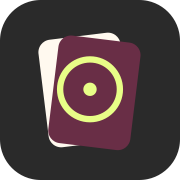
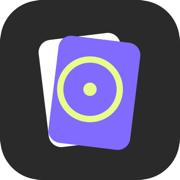
Align game with brand palette and add card flips

diff --git a/src/styles/global.css b/src/styles/global.css
@@ -10,17 +10,17 @@
   --site-soft: #f6f6f3;
   --lime: #e8fe87;
   --purple: #816afe;
-  --table: #eee5d8;
-  --paper: #fff9ef;
-  --game-ink: #292126;
-  --game-muted: #645a60;
-  --game-line: #cdc0b2;
-  --game-brand: #692e46;
-  --chapter-beginnings: #b68a3d;
-  --chapter-character: #692e46;
-  --chapter-turns: #466c7a;
-  --chapter-present: #4f6756;
-  --focus: #1e596a;
+  --table: #f6f6f3;
+  --paper: #ffffff;
+  --game-ink: #2a2a2a;
+  --game-muted: rgba(42, 42, 42, .66);
+  --game-line: rgba(42, 42, 42, .16);
+  --game-brand: #816afe;
+  --chapter-beginnings: #e8fe87;
+  --chapter-character: #816afe;
+  --chapter-turns: #2a2a2a;
+  --chapter-present: #ffffff;
+  --focus: #816afe;
   --serif: Georgia, "Times New Roman", serif;
 }
 
@@ -55,7 +55,7 @@ h1, h2, h3, p { margin-top: 0; }
 .button--lime { background: var(--lime); color: var(--site-ink); }
 .button--ghost { border-color: var(--site-line); }
 .button--wide { width: 100%; }
-.button--game { border-radius: 10px; background: var(--game-brand); color: var(--paper); }
+.button--game { border-radius: 999px; background: var(--lime); color: var(--site-ink); }
 .button--paper { border-radius: 10px; border-color: var(--game-line); background: transparent; color: var(--game-ink); }
 .button--danger { border-radius: 10px; background: #9d2d2d; color: #fff; }
 .button-row { display: flex; flex-wrap: wrap; gap: 10px; align-items: center; }
@@ -88,7 +88,7 @@ h1, h2, h3, p { margin-top: 0; }
 .auth-form input { width: 100%; min-height: 54px; padding: 12px 16px; border: 1px solid var(--site-line); border-radius: 12px; background: #fff; color: var(--site-ink); font-size: 17px; }
 .form-error { margin: 0; padding: 12px 14px; background: #fff0f0; color: #8f2424; border-radius: 10px; font-size: 14px; }
 .auth-note { margin: 24px 0 0; max-width: 520px; color: var(--site-muted); font-size: 13px; line-height: 1.5; }
-.auth-visual { position: relative; min-height: 620px; padding: 34px; overflow: hidden; border-radius: 0 0 110px 0; color: #fff; background: #151a1d; }
+.auth-visual { position: relative; min-height: 620px; padding: 34px; overflow: hidden; border-radius: 0 0 110px 0; color: #fff; background: var(--site-ink); }
 .auth-visual::after { content: ""; position: absolute; inset: 24px 24px 24px auto; width: 1px; background: repeating-linear-gradient(to bottom, rgba(255,255,255,.24) 0 2px, transparent 2px 10px); }
 .auth-visual__label { display: inline-flex; padding: 8px 12px; border: 1px solid rgba(255,255,255,.18); border-radius: 999px; font-size: 10px; letter-spacing: .13em; }
 .auth-visual > p { position: absolute; z-index: 3; bottom: 34px; left: 34px; max-width: 350px; margin: 0; color: rgba(255,255,255,.72); font-size: 16px; line-height: 1.5; }
@@ -118,7 +118,7 @@ h1, h2, h3, p { margin-top: 0; }
 .product-card__status { margin-bottom: auto; font-size: 12px; font-weight: 760; letter-spacing: .12em; text-transform: uppercase; }
 .product-card__copy h3 { margin: 28px 0 20px; font-size: clamp(48px, 5vw, 74px); line-height: .94; letter-spacing: -.06em; }
 .product-card__copy > p:not(.product-card__status) { max-width: 560px; margin-bottom: 28px; color: rgba(255,255,255,.7); font-size: 17px; line-height: 1.55; }
-.product-card__art { position: relative; overflow: hidden; background: #171c1f; }
+.product-card__art { position: relative; overflow: hidden; background: #202020; }
 .product-card__art::before { content: ""; position: absolute; inset: 0; background-image: radial-gradient(circle at center, rgba(129,106,254,.2), transparent 60%); }
 .mini-card { position: absolute; top: 50%; left: 50%; width: min(42%, 230px); aspect-ratio: 3/4; display: flex; flex-direction: column; justify-content: space-between; padding: 22px; border-radius: 19px; border: 1px solid rgba(255,255,255,.18); box-shadow: 0 25px 45px rgba(0,0,0,.35); font-size: 13px; }
 .mini-card--ochre { background: var(--chapter-beginnings); color: var(--game-ink); transform: translate(-88%, -48%) rotate(-15deg); }
@@ -177,11 +177,11 @@ h1, h2, h3, p { margin-top: 0; }
 .play-progress span { color: var(--game-muted); }
 .play-main { flex: 1; width: min(1260px, 100%); display: grid; place-items: center; margin: 0 auto; padding: 34px clamp(18px, 4vw, 50px) 60px; }
 .chapter-screen { width: 100%; display: grid; grid-template-columns: minmax(300px, 500px) minmax(280px, 420px); align-items: center; justify-content: center; gap: clamp(36px, 7vw, 100px); }
-.chapter-card { min-height: 600px; aspect-ratio: 3/4; display: flex; flex-direction: column; justify-content: space-between; padding: 36px; border-radius: 25px; background: var(--chapter-color); color: var(--paper); box-shadow: 0 28px 50px -30px rgba(41,33,38,.55); }
+.chapter-card { min-height: 600px; aspect-ratio: 3/4; display: flex; flex-direction: column; justify-content: space-between; padding: 36px; border: 1px solid var(--game-line); border-radius: 25px; background: var(--chapter-color); color: var(--paper); box-shadow: 0 28px 50px -30px rgba(42,42,42,.35); }
 .chapter-card--beginnings { --chapter-color: var(--chapter-beginnings); color: var(--game-ink); }
 .chapter-card--character { --chapter-color: var(--chapter-character); }
 .chapter-card--turns { --chapter-color: var(--chapter-turns); }
-.chapter-card--present { --chapter-color: var(--chapter-present); }
+.chapter-card--present { --chapter-color: var(--chapter-present); color: var(--game-ink); }
 .chapter-card h1 { margin: 0 0 14px; font-family: var(--serif); font-size: clamp(39px, 5vw, 59px); font-weight: 400; line-height: 1.02; letter-spacing: -.045em; }
 .chapter-card p { margin: 0; }
 .chapter-symbol { width: 48%; align-self: center; }
@@ -194,11 +194,20 @@ h1, h2, h3, p { margin-top: 0; }
 .mobile-note { display: none; }
 .pair-cards { width: 100%; display: grid; grid-template-columns: repeat(2, minmax(280px, 430px)); align-items: start; justify-content: center; gap: clamp(18px, 4vw, 42px); }
 .pair-cards--closed { grid-template-columns: repeat(2, minmax(240px, 360px)); align-items: center; }
-.pair-cards--closed .game-card:first-child { transform: rotate(-3deg); }
-.pair-cards--closed .game-card:last-child { transform: rotate(3deg); }
-.pair-option { display: grid; gap: 12px; }
+.pair-cards--closed .pair-option:first-child { transform: rotate(-3deg); }
+.pair-cards--closed .pair-option:last-child { transform: rotate(3deg); }
+.pair-option { min-width: 0; display: grid; gap: 12px; transition: transform .65s cubic-bezier(.2,.75,.25,1); }
+.flip-card { width: 100%; min-height: 480px; aspect-ratio: 3/4; perspective: 1400px; outline: none; }
+.flip-card[role="button"] { cursor: pointer; }
+.flip-card[role="button"]:focus-visible { border-radius: 22px; outline: 3px solid var(--focus); outline-offset: 5px; }
+.flip-card__inner { position: relative; width: 100%; height: 100%; transform-style: preserve-3d; transition: transform .72s cubic-bezier(.2,.72,.18,1); }
+.pair-option:nth-child(2) .flip-card__inner { transition-delay: .08s; }
+.flip-card.is-flipped .flip-card__inner { transform: rotateY(180deg); }
+.flip-card__side { position: absolute; inset: 0; backface-visibility: hidden; -webkit-backface-visibility: hidden; }
+.flip-card__side--face { transform: rotateY(180deg); }
+.flip-card__side > .game-card { height: 100%; min-height: 0; }
 
-.game-card { position: relative; width: 100%; min-height: 560px; aspect-ratio: 3/4; overflow: visible; padding: 30px; border-radius: 22px; border: 1px solid rgba(41,33,38,.16); box-shadow: 0 20px 42px -28px rgba(41,33,38,.55); }
+.game-card { position: relative; width: 100%; min-height: 560px; aspect-ratio: 3/4; overflow: visible; padding: 30px; border-radius: 22px; border: 1px solid var(--game-line); box-shadow: 0 20px 42px -28px rgba(42,42,42,.35); }
 .game-card--small { min-height: 480px; }
 .game-card--compact { min-height: 460px; }
 .game-card--back { display: flex; flex-direction: column; justify-content: space-between; text-align: left; }
@@ -213,7 +222,7 @@ h1, h2, h3, p { margin-top: 0; }
 .game-card--back.card-tone--beginnings { background: var(--chapter-beginnings); color: var(--game-ink); }
 .game-card--back.card-tone--character { background: var(--chapter-character); color: var(--paper); }
 .game-card--back.card-tone--turns { background: var(--chapter-turns); color: var(--paper); }
-.game-card--back.card-tone--present { background: var(--chapter-present); color: var(--paper); }
+.game-card--back.card-tone--present { background: var(--chapter-present); color: var(--game-ink); }
 .game-card--face::before { content: ""; position: absolute; top: 0; left: 30px; right: 30px; height: 5px; border-radius: 0 0 6px 6px; background: var(--card-accent); }
 .card-kicker { margin: 0; font-size: 12px; font-weight: 700; letter-spacing: .1em; text-transform: uppercase; }
 .card-symbol { width: 45%; align-self: center; }
@@ -232,11 +241,11 @@ h1, h2, h3, p { margin-top: 0; }
 
 .single-card-stage { width: min(560px, 100%); display: grid; justify-items: center; gap: 16px; margin: auto; }
 .single-card-stage .game-card { max-width: 440px; }
-.guess-panel, .detail-panel { width: min(660px, 100%); padding: 20px 22px; border: 1px solid var(--game-line); border-radius: 14px; background: rgba(255,249,239,.72); }
+.guess-panel, .detail-panel { width: min(660px, 100%); padding: 20px 22px; border: 1px solid var(--game-line); border-radius: 14px; background: rgba(255,255,255,.78); }
 .guess-panel > p:not(.eyebrow) { font-family: var(--serif); font-size: 22px; line-height: 1.45; }
 .detail-panel { margin: 0; color: var(--game-muted); font-size: 17px; line-height: 1.55; }
 .story-tools { width: min(680px, 100%); display: grid; grid-template-columns: repeat(3, 1fr); gap: 8px; }
-.tool-button { min-height: 52px; padding: 10px 12px; border: 1px solid var(--game-line); border-radius: 10px; background: rgba(255,249,239,.45); font-size: 14px; }
+.tool-button { min-height: 52px; padding: 10px 12px; border: 1px solid var(--game-line); border-radius: 10px; background: rgba(255,255,255,.68); font-size: 14px; }
 .story-complete { width: min(680px, 100%); display: grid; grid-template-columns: 1.3fr .7fr; gap: 8px; }
 .recording-badge { margin: 0; padding: 7px 10px; border: 1px solid var(--game-line); border-radius: 999px; color: var(--game-muted); font-size: 12px; }
 .closing-screen { width: min(760px, 100%); text-align: center; }
@@ -355,8 +364,8 @@ h1, h2, h3, p { margin-top: 0; }
   .chapter-screen { grid-template-columns: 1fr; max-width: 460px; }
   .chapter-card { width: 100%; min-height: 500px; }
   .pair-cards, .pair-cards--closed { grid-template-columns: minmax(0, 440px); }
-  .pair-cards--closed .game-card:last-child { margin-top: -390px; transform: translate(18px, 28px) rotate(4deg); }
-  .pair-cards--closed .game-card:first-child { transform: translate(-18px, -10px) rotate(-4deg); }
+  .pair-cards--closed .pair-option:last-child { margin-top: -390px; transform: translate(18px, 28px) rotate(4deg); }
+  .pair-cards--closed .pair-option:first-child { transform: translate(-18px, -10px) rotate(-4deg); }
   .mobile-note { display: block; font-size: 13px; }
   .game-card { min-height: 500px; padding: 24px; }
   .game-card--face::before { left: 24px; right: 24px; }
@@ -403,7 +412,7 @@ h1, h2, h3, p { margin-top: 0; }
   .game-card--small { min-height: 430px; }
   .card-prompt { font-size: 28px; }
   .pair-screen h1 { font-size: 42px; }
-  .pair-cards--closed .game-card:last-child { margin-top: -335px; }
+  .pair-cards--closed .pair-option:last-child { margin-top: -335px; }
   .guess-panel .button-row, .closing-screen .button-row, .result-page .button-row { display: grid; width: 100%; }
   .modal { width: calc(100% - 16px); max-height: calc(100dvh - 16px); border-radius: 18px; }
   .modal__sheet { max-height: calc(100dvh - 18px); }

diff --git a/src/GameApp.tsx b/src/GameApp.tsx
@@ -569,18 +569,44 @@ export function GameApp({ deck, onBackToCabinet }: { deck: Deck; onBackToCabinet
         <GameTopBar session={session} deck={deck} onPause={() => send('PAUSE')} onFinish={() => send('GO_TO_CLOSING')} onRules={() => setRulesOpen(true)} />
         <main className="play-main">
           {session.phase === 'chapter_intro' && <ChapterIntro chapter={currentChapter} onDraw={() => send('DRAW_PAIR')} onSkip={() => send('SKIP_CHAPTER')} />}
-          {session.phase === 'pair_closed' && (
+          {(session.phase === 'pair_closed' || session.phase === 'pair_open') && (
             <section className="pair-screen">
-              <div><p className="eyebrow">{currentChapter.number} · {currentChapter.title}</p><h1>Две карточки на столе</h1><p>Сначала откройте обе, затем герой выберет одну.</p></div>
-              <div className="pair-cards pair-cards--closed">{session.candidates.map((id) => <CardBack chapter={currentChapter} small key={id} />)}</div>
-              <button className="button button--game" type="button" onClick={() => send('REVEAL_PAIR')}>Открыть два вопроса</button>
-            </section>
-          )}
-          {session.phase === 'pair_open' && (
-            <section className="pair-screen">
-              <div><p className="eyebrow">Выбирает {ROLE_LABELS[session.role].toLocaleLowerCase('ru')}</p><h1>Какую историю расскажем?</h1><p className="mobile-note">Вторая карточка ниже.</p></div>
-              <div className="pair-cards">{session.candidates.map((id) => { const card = questionById(deck, id); return card ? <div className="pair-option" key={id}><QuestionCardFace card={card} chapter={currentChapter} compact /><button className="button button--game button--wide" type="button" onClick={() => send('SELECT_QUESTION', id)}>Выбрать этот вопрос</button></div> : null })}</div>
-              <div className="button-row"><button className="button button--paper" type="button" onClick={() => send('REPLACE_PAIR')}>Другие вопросы</button><button className="link-button" type="button" onClick={() => send('SKIP_CHAPTER')}>Пропустить главу</button></div>
+              {session.phase === 'pair_closed'
+                ? <div><p className="eyebrow">{currentChapter.number} · {currentChapter.title}</p><h1>Две карточки на столе</h1><p>Нажмите на любую карточку — обе перевернутся, и герой выберет вопрос.</p></div>
+                : <div><p className="eyebrow">Выбирает {ROLE_LABELS[session.role].toLocaleLowerCase('ru')}</p><h1>Какую историю расскажем?</h1><p className="mobile-note">Вторая карточка ниже.</p></div>}
+              <div className={`pair-cards ${session.phase === 'pair_closed' ? 'pair-cards--closed' : ''}`}>
+                {session.candidates.map((id) => {
+                  const card = questionById(deck, id)
+                  if (!card) return null
+                  const closed = session.phase === 'pair_closed'
+                  return (
+                    <div className="pair-option" key={id}>
+                      <div
+                        className={`flip-card ${closed ? '' : 'is-flipped'}`}
+                        role={closed ? 'button' : undefined}
+                        tabIndex={closed ? 0 : undefined}
+                        aria-label={closed ? 'Перевернуть две карточки' : undefined}
+                        onClick={closed ? () => send('REVEAL_PAIR') : undefined}
+                        onKeyDown={closed ? (event) => {
+                          if (event.key === 'Enter' || event.key === ' ') {
+                            event.preventDefault()
+                            send('REVEAL_PAIR')
+                          }
+                        } : undefined}
+                      >
+                        <div className="flip-card__inner">
+                          <div className="flip-card__side flip-card__side--back"><CardBack chapter={currentChapter} small /></div>
+                          <div className="flip-card__side flip-card__side--face"><QuestionCardFace card={card} chapter={currentChapter} compact /></div>
+                        </div>
+                      </div>
+                      {!closed && <button className="button button--game button--wide" type="button" onClick={() => send('SELECT_QUESTION', id)}>Выбрать этот вопрос</button>}
+                    </div>
+                  )
+                })}
+              </div>
+              {session.phase === 'pair_closed'
+                ? <button className="button button--game" type="button" onClick={() => send('REVEAL_PAIR')}>Открыть два вопроса</button>
+                : <div className="button-row"><button className="button button--paper" type="button" onClick={() => send('REPLACE_PAIR')}>Другие вопросы</button><button className="link-button" type="button" onClick={() => send('SKIP_CHAPTER')}>Пропустить главу</button></div>}
             </section>
           )}
           {session.phase === 'guess' && activeCard && (

diff --git a/tests/game-ui.test.tsx b/tests/game-ui.test.tsx
@@ -30,6 +30,16 @@ describe('основной игровой сценарий', () => {
     vi.spyOn(Date, 'now').mockImplementation(() => { now += 500; return now })
   })
 
+  it('переворачивает закрытую пару по нажатию на карточку', () => {
+    render(<GameApp deck={deck} onBackToCabinet={() => undefined} />)
+    beginGame(4)
+    fireEvent.click(screen.getByRole('button', { name: 'Взять две карточки' }))
+    const closedCards = screen.getAllByRole('button', { name: 'Перевернуть две карточки' })
+    fireEvent.click(closedCards[0])
+    expect(closedCards[0]).toHaveClass('is-flipped')
+    expect(screen.getAllByRole('button', { name: 'Выбрать этот вопрос' })).toHaveLength(2)
+  })
+
   it('проходит короткую партию через интерфейс', () => {
     render(<GameApp deck={deck} onBackToCabinet={() => undefined} />)
     beginGame(4)
